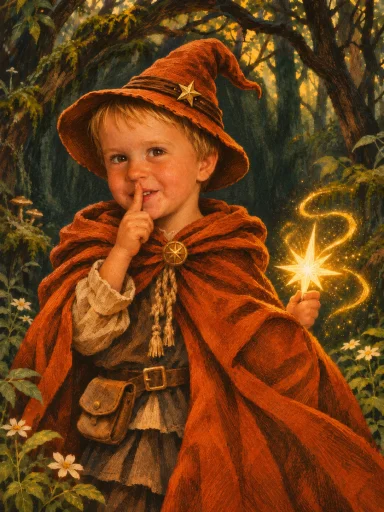
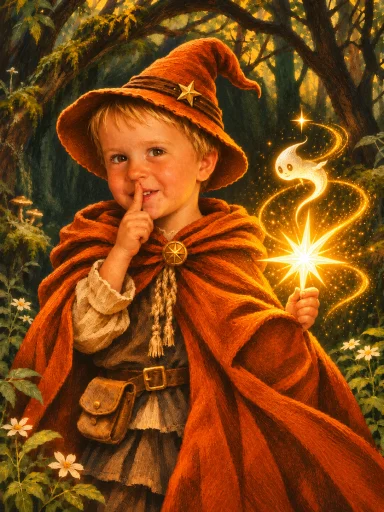
Give the four cousin witches distinct spells and portraits

diff --git a/styles.css b/styles.css
@@ -504,6 +504,7 @@ button.route-option:hover:not(:disabled) { border-color: var(--lime); background
 .effect-strength { background: #debc71; color: #302208; }
 .effect-vulnerable { background: #efaf9f; color: #441b16; }
 .effect-frail { background: #c9badd; color: #302040; }
+.effect-poison { background: #c5df9b; color: #263c1c; }
 .hand-counts { display: flex; flex-wrap: wrap; gap: .35rem .65rem; color: var(--muted); font-size: .82rem; }
 .selected-target { color: var(--lime); font-weight: 600; }
 .secondary-hand { margin-top: .35rem; padding-top: .65rem; border-top: 1px solid var(--line); color: var(--muted); font-size: .84rem; }

diff --git a/README.md b/README.md
@@ -10,12 +10,12 @@ Run `node server.mjs` with Node 22 or newer, then open [localhost:4173](http://l
 - **Share a screen.** Pick a character and build a deck for each player, then choose **Begin the trail**. Take turns using the same controls. One person can also play both hands.
 - **Play with a room code.** Open the game in two browser tabs or on two devices that can reach the same server. The host creates a room, the guest joins by code, and each player picks a character and confirms a deck. For devices on the same trusted network, start with `HOST=0.0.0.0 node server.mjs` and use the host machine’s LAN address on both devices.
 
-The four cousins are playable from the start.
+The four cousins are playable from the start. Hudson practices poison magic, while Quinn, Alba, and Tito practice different kinds of necromancy.
 
-- **Hudson · Tank · 48 HP.** Shield Wall protects him and his partner.
-- **Quinn · Witch · 30 HP.** Witch’s Hex makes a rival Vulnerable and Frail.
-- **Alba · Bard · 32 HP.** Cutting Chorus sings one damaging note per energy spent.
-- **Tito · Witch · 35 HP.** His Secret Star spell spends 3 energy to deal 22 base damage through Block.
+- **Hudson · Poison Witch · 45 HP.** Venom Ward shields the team and applies 3 Poison to a rival. Poison takes HP before the rival acts and then drops by 1.
+- **Quinn · Bone Witch · 34 HP.** Bone Hex conjures a skeletal ward that makes a rival Vulnerable and Frail.
+- **Alba · Spirit-Song Witch · 32 HP.** Spirit Chorus calls a spirit to strike for every energy spent. Extra spirits move to the next rival.
+- **Tito · Star-Spirit Witch · 35 HP.** His Secret Star summons a ghost that deals 22 base damage through Block for 3 energy.
 
 Ember the fox and Pip the hare are available from the start, too. Recruit Bramble the badger and Latch the raccoon at your first win. The collection shows requirements for all 30 species, and your browser remembers your recruits across runs. Each animal has a signature card, a role, and its own starting health. Level-up perks include attack damage, health, starting Block, extra cards, starting energy, and healing.
 
